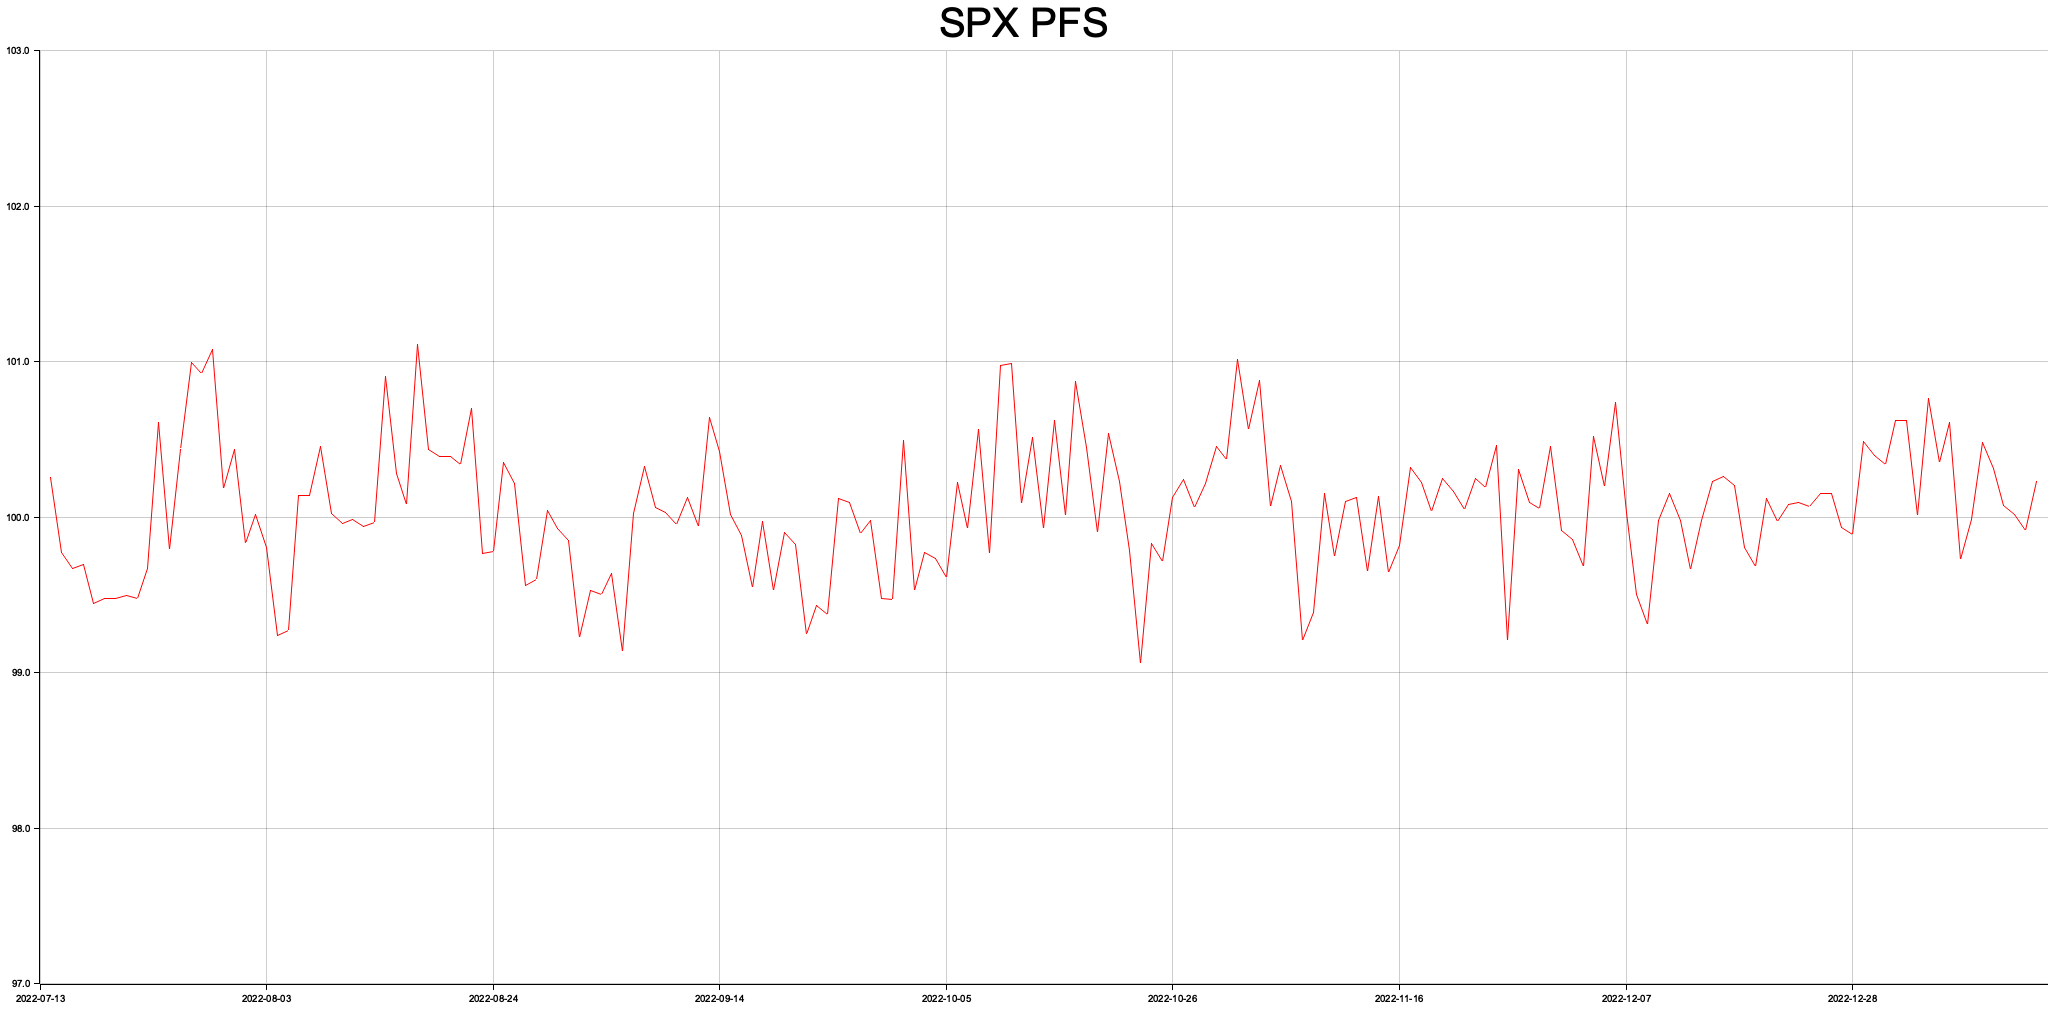
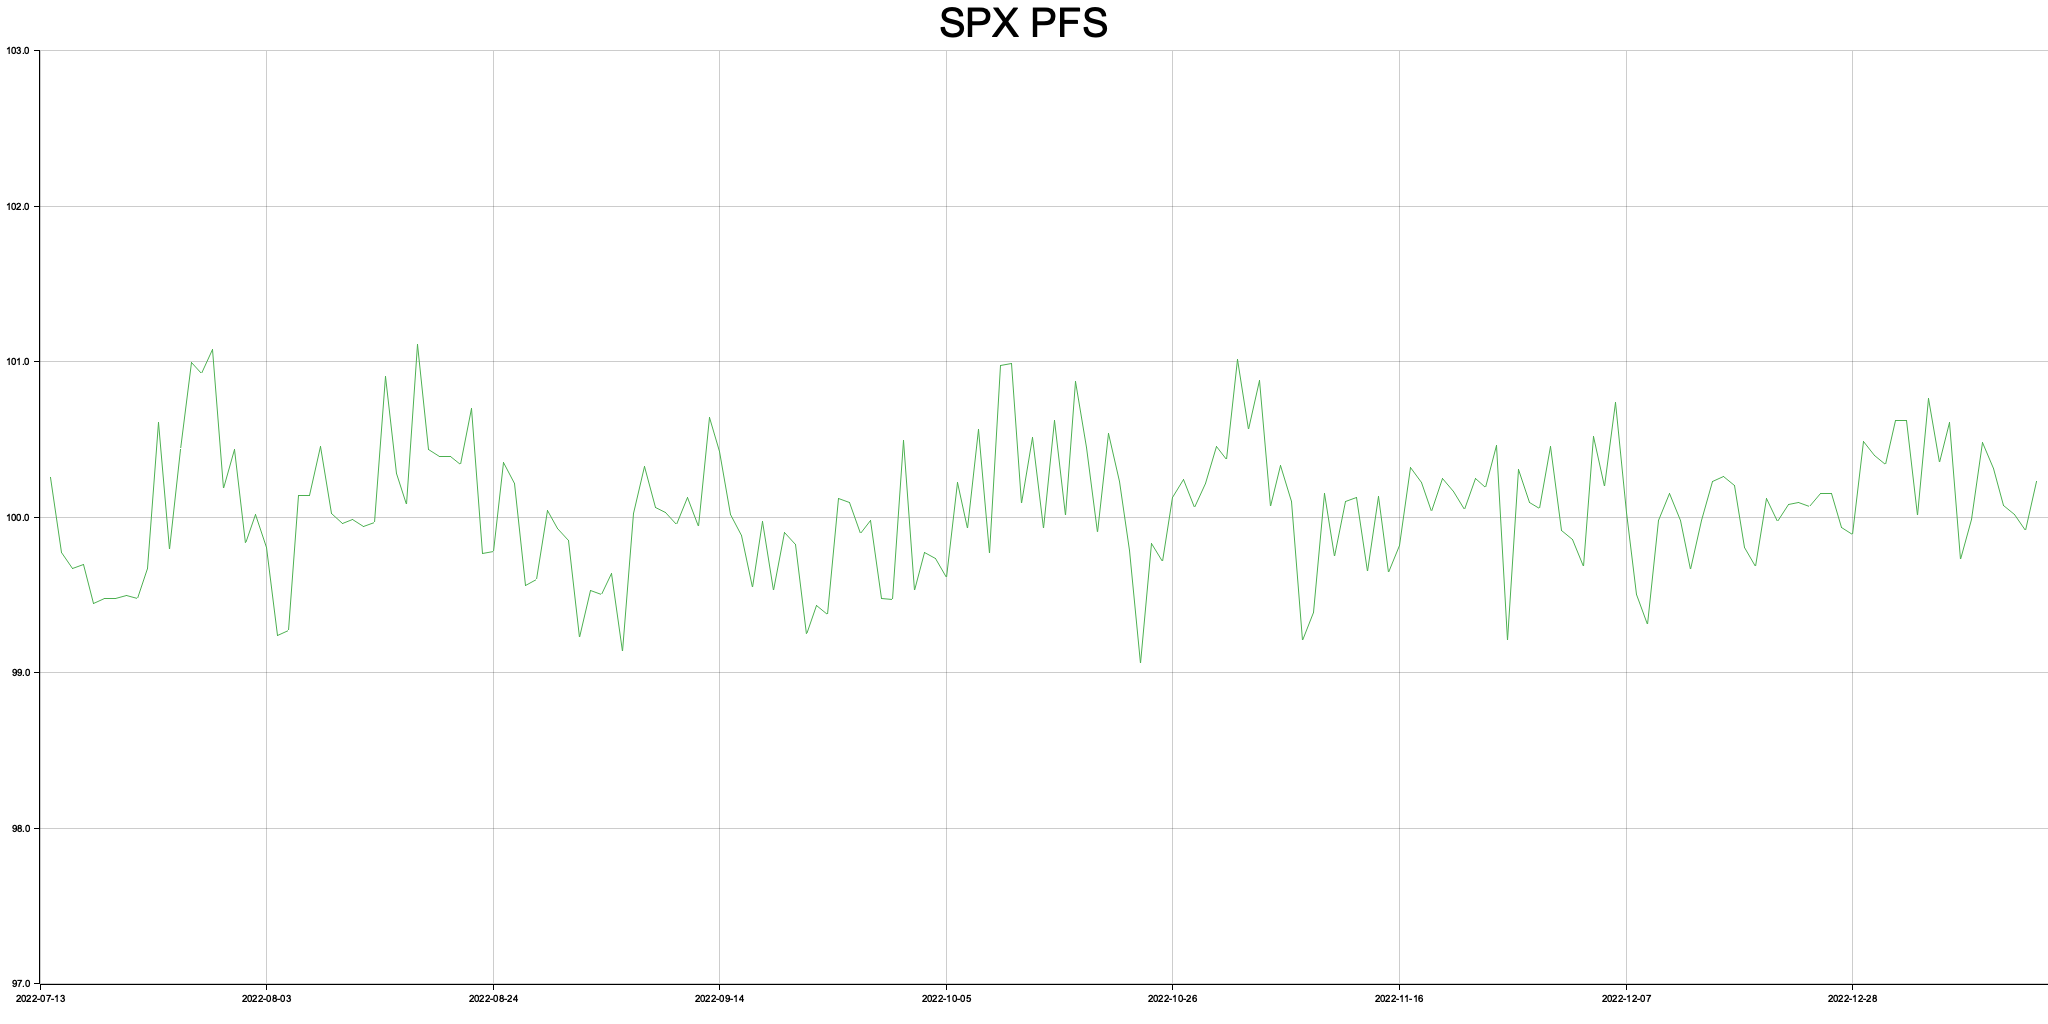
historical date analysis calc and plot is done. TODO pretty things up

diff --git a/time_series/src/hda.rs b/time_series/src/hda.rs
@@ -1,81 +1,89 @@
-use crate::{TickerData, Time};
-use chrono::{Duration, Local, NaiveDate, TimeZone};
+use chrono::Duration;
+use chrono::{Local, NaiveDate, TimeZone};
+use crate::*;
 use plotters::prelude::*;
 
-/// Polarity Factor System
-pub struct PFS {
+/// Historical Date Analysis
+pub struct HDA {
+  /// Reversal on this date
   pub date: Time,
-  pub value: f64
+  /// How many years had a reversal on this date
+  pub mode: u32
 }
 
-impl PFS {
-  pub fn new(date: Time, value: f64) -> Self {
-    Self { date, value }
+impl HDA {
+  pub fn new(date: Time, mode: u32) -> Self {
+    Self { date, mode }
   }
 }
 
-pub struct PlotPFS {
-  pub cycle_years: u32,
+pub struct PlotHDA {
+  /// Start date to plot daily HDA
   pub start_date: Time,
-  pub end_date: Time
+  /// End date to plot daily HDA
+  pub end_date: Time,
+  /// Define a candle reversal by local max or min +/- margin
+  pub reversal_margin: usize,
+  /// Candle is within this margin of a reversal (valid HDA)
+  pub hda_margin: usize,
 }
 
-impl PlotPFS {
-  pub fn new(cycle_years: u32, start_date: Time, end_date: Time) -> Self {
+impl PlotHDA {
+  pub fn new(start_date: Time, end_date: Time, reversal_margin: usize, hda_margin: usize) -> Self {
     Self {
-      cycle_years,
       start_date,
-      end_date
+      end_date,
+      reversal_margin,
+      hda_margin
     }
   }
 
-  pub fn pfs(&self, ticker_data: &TickerData) -> Vec<PFS> {
-    let mut daily_pfs = Vec::<PFS>::new();
+  /// Compute Historical Date Analysis
+  /// Compares the same date of each year for similar price action
+  pub fn hda(&self, ticker_data: &TickerData) -> Vec<HDA> {
+    let mut daily_hda = Vec::<HDA>::new();
 
     // compute number of cycles possible in candle history
-    let earliest_candle_year = ticker_data.earliest_date().year;
-    let latest_candle_year = ticker_data.latest_date().year;
-    let num_cycles = (latest_candle_year - earliest_candle_year) / self.cycle_years as i32;
+    let earliest_date = ticker_data.earliest_date();
+    let earliest_candle_year = earliest_date.year;
+    let latest_date = ticker_data.latest_date();
+    let latest_candle_year = latest_date.year;
+    let total_years_back = latest_candle_year - earliest_candle_year;
 
     let time_period = self.start_date.time_period(&self.end_date);
     for date in time_period.iter() {
-      // PFS for this date
-      let mut pfs = (100.0, 1);
-      // iterate possible cycles in candle history
-      let mut found_cycle_date = false;
-      for cycle in 1..num_cycles + 1 {
-        // find candle X cycles back
-        for (index, candle) in ticker_data.candles.iter().enumerate() {
-          if index == 0 {
-            continue;
-          }
-          // used to compute percent change between candles
+      // HDA for this date (frequency of reversals on this date across all years)
+      let mut hda = 0;
+      // find candle X cycles back
+      for (index, candle) in ticker_data.candles.iter().enumerate() {
+        if index == 0 {
+          continue;
+        }
+        // iterate over each year back
+        for years_back in 0..total_years_back {
+          // candle date X years back
+          let cycle_date = Time::new(date.year - years_back, &date.month, &date.day);
+          // found candle in previous year on this date
           let prev_candle = ticker_data.candles.get(index - 1).expect("Failed to get previous candle");
-          // candle X cycles back
-          let cycle_date = Time::new(date.year - self.cycle_years as i32 * cycle, &date.month, &date.day);
-          // found candle X cycles back
           if prev_candle.date < cycle_date && candle.date >= cycle_date {
-            let change = candle.percent_change(prev_candle.close);
-            pfs = (pfs.0 + change, pfs.1 + 1);
-            found_cycle_date = true;
-            break;
+            // if candle is within margin of local high or low
+            if ticker_data.candle_is_high(candle, self.reversal_margin, self.hda_margin) || ticker_data.candle_is_low(candle, self.reversal_margin, self.hda_margin) {
+              hda += 1;
+            }
           }
         }
       }
-      if !found_cycle_date {
-        panic!("Could not find cycle date for {}", date.as_string());
-      }
-      daily_pfs.push(PFS {
+      daily_hda.push(HDA {
         date: *date,
-        value: pfs.0 / pfs.1 as f64
+        mode: hda
       });
     }
-    daily_pfs
+    daily_hda
   }
 
-  pub fn plot_pfs(&self, daily_pfs: &[PFS], out_file: &str, plot_title: &str, plot_color: &RGBColor) {
+  pub fn plot_hda(&self, daily_hda: &[HDA], out_file: &str, plot_title: &str, plot_color: &RGBColor) {
     // get daily PFS data
-    let data = self.get_data(daily_pfs);
+    let data = self.get_data(daily_hda);
     // draw chart
     let root = BitMapBackend::new(out_file, (2048, 1024)).into_drawing_area();
     root.fill(&WHITE).unwrap();
@@ -83,18 +91,18 @@ impl PlotPFS {
     let from_date_index = self.find_date_index(&data, &self.start_date);
     let from_date_input = self.parse_time(&data[from_date_index].0);
     let from_date = from_date_input - Duration::days(1);
-    println!("PFS Start Date: {}", from_date);
+    println!("HDA Start Date: {}", from_date);
     // PFS end date
     let to_date_index = self.find_date_index(&data, &self.end_date);
     let to_date_input = self.parse_time(&data[to_date_index].0);
     let to_date = to_date_input + Duration::days(1);
-    println!("PFS End Date: {}", to_date);
+    println!("HDA End Date: {}", to_date);
     // label chart
     let mut chart = ChartBuilder::on(&root)
       .x_label_area_size(40)
       .y_label_area_size(40)
       .caption(plot_title, ("sans-serif", 50.0).into_font())
-      .build_cartesian_2d(from_date..to_date, 97f32..103f32).unwrap();
+      .build_cartesian_2d(from_date..to_date, 0f32..20f32).unwrap();
     chart.configure_mesh().light_line_style(WHITE).draw().unwrap();
     // plot PFS values
     chart.draw_series(
@@ -105,12 +113,12 @@ impl PlotPFS {
     println!("Result has been saved to {}", out_file);
   }
 
-  fn get_data(&self, daily_pfs: &[PFS]) -> Vec<(String, f32)> {
+  fn get_data(&self, daily_hda: &[HDA]) -> Vec<(String, f32)> {
     let mut data = Vec::new();
-    for pfs in daily_pfs.iter() {
+    for hda in daily_hda.iter() {
       data.push((
-        pfs.date.as_string(),
-        pfs.value as f32,
+        hda.date.as_string(),
+        hda.mode as f32,
       ));
     }
     data

diff --git a/run/src/main.rs b/run/src/main.rs
@@ -1,11 +1,15 @@
 use std::path::PathBuf;
 use log::LevelFilter;
+use plotters::prelude::full_palette::{RED, BLUE, GREEN};
 use simplelog::{
   ColorChoice, Config, TerminalMode, TermLogger,
 };
 use time_series::*;
 
-const SPX_PFS_FILE: &str = "./SPX/SPX_pfs.png";
+const SPX_PFS_10_FILE: &str = "./SPX/SPX_pfs_10.png";
+const SPX_PFS_19_FILE: &str = "./SPX/SPX_pfs_19.png";
+const SPX_PFS_20_FILE: &str = "./SPX/SPX_pfs_20.png";
+const SPX_HDA_FILE: &str = "./SPX/SPX_hda.png";
 
 #[tokio::main]
 async fn main() {
@@ -23,14 +27,31 @@ async fn main() {
   // write full ticker_data history to CSV
   dataframe::ticker_dataframe(&ticker_data, &PathBuf::from("./SPX/SPX_history.csv"));
 
-  let start_date = Time::new(2022, &Month::July, &Day::Fourteen);
-  let end_date = Time::new(2023, &Month::January, &Day::Fourteen);
-  let cycle_years = 10;
 
-  let pfs = PlotPFS::new(cycle_years, start_date, end_date);
-  let daily_pfs = pfs.pfs(&ticker_data);
+  // ======================== Polarity Factor System ============================
+  let pfs_start_date = Time::new(2023, &Month::March, &Day::Ten);
+  let pfs_end_date = Time::new(2023, &Month::April, &Day::Ten);
+  // TODO: plot all PFS in one chart
+  let pfs_10 = PlotPFS::new(10, pfs_start_date, pfs_end_date);
+  let daily_pfs_10 = pfs_10.pfs(&ticker_data);
+  pfs_10.plot_pfs(&daily_pfs_10, SPX_PFS_10_FILE, "SPX - PFS 10", &GREEN);
 
-  pfs.plot_pfs(&daily_pfs,SPX_PFS_FILE, plot_color);
+  let pfs_19 = PlotPFS::new(19, pfs_start_date, pfs_end_date);
+  let daily_pfs_19 = pfs_19.pfs(&ticker_data);
+  pfs_19.plot_pfs(&daily_pfs_19,SPX_PFS_19_FILE, "SPX - PFS 19", &BLUE);
+
+  let pfs_20 = PlotPFS::new(20, pfs_start_date, pfs_end_date);
+  let daily_pfs_20 = pfs_20.pfs(&ticker_data);
+  pfs_20.plot_pfs(&daily_pfs_20,SPX_PFS_20_FILE, "SPX - PFS 20", &RED);
+
+  // ======================== Historical Date Analysis ============================
+  let hda_start_date = Time::new(2023, &Month::March, &Day::Ten);
+  let hda_end_date = Time::new(2023, &Month::April, &Day::Ten);
+  let hda_reversal_margin = 10;
+  let hda_margin = 1;
+  let hda = PlotHDA::new(hda_start_date, hda_end_date, hda_reversal_margin, hda_margin);
+  let daily_hda = hda.hda(&ticker_data);
+  hda.plot_hda(&daily_hda, SPX_HDA_FILE, "SPX - HDA", &BLUE);
 }
 
 

diff --git a/time_series/src/ticker_data.rs b/time_series/src/ticker_data.rs
@@ -237,6 +237,30 @@ impl TickerData {
     lowest_low
   }
 
+  pub fn candle_is_high(&self, candle: &Candle, reversal_margin: usize, error_margin: usize) -> bool {
+    let local_highs = self.find_local_highs(reversal_margin);
+    for local_high in local_highs.iter() {
+      if local_high.date.delta_date(-(error_margin as i64)) <= candle.date &&
+        local_high.date.delta_date(error_margin as i64) >= candle.date
+      {
+        return true;
+      }
+    }
+    false
+  }
+
+  pub fn candle_is_low(&self, candle: &Candle, reversal_margin: usize, error_margin: usize) -> bool {
+    let local_lows = self.find_local_highs(reversal_margin);
+    for local_low in local_lows.iter() {
+      if local_low.date.delta_date(-(error_margin as i64)) <= candle.date &&
+        local_low.date.delta_date(error_margin as i64) >= candle.date
+      {
+        return true;
+      }
+    }
+    false
+  }
+
   fn get_candle_by_date(&self, date: &Time) -> Option<Candle> {
     for candle in self.candles.iter() {
       if candle.date == *date {

diff --git a/time_series/src/time.rs b/time_series/src/time.rs
@@ -75,7 +75,7 @@ impl Time {
     format!("{}-{}-{}", self.year, self.month.to_string(), self.day.to_string())
   }
   pub fn to_naive_date(&self) -> NaiveDate {
-    chrono::NaiveDate::from_ymd_opt(
+    NaiveDate::from_ymd_opt(
       self.year,
       self.month.to_num(),
       self.day.to_num()

diff --git a/time_series/src/lib.rs b/time_series/src/lib.rs
@@ -5,6 +5,7 @@ pub mod market_structure;
 pub mod rapid_api;
 pub mod time;
 pub mod pfs;
+pub mod hda;
 
 pub use ticker_data::*;
 pub use candle::*;
@@ -13,3 +14,4 @@ pub use market_structure::*;
 pub use rapid_api::*;
 pub use time::*;
 pub use pfs::*;
+pub use hda::*;
